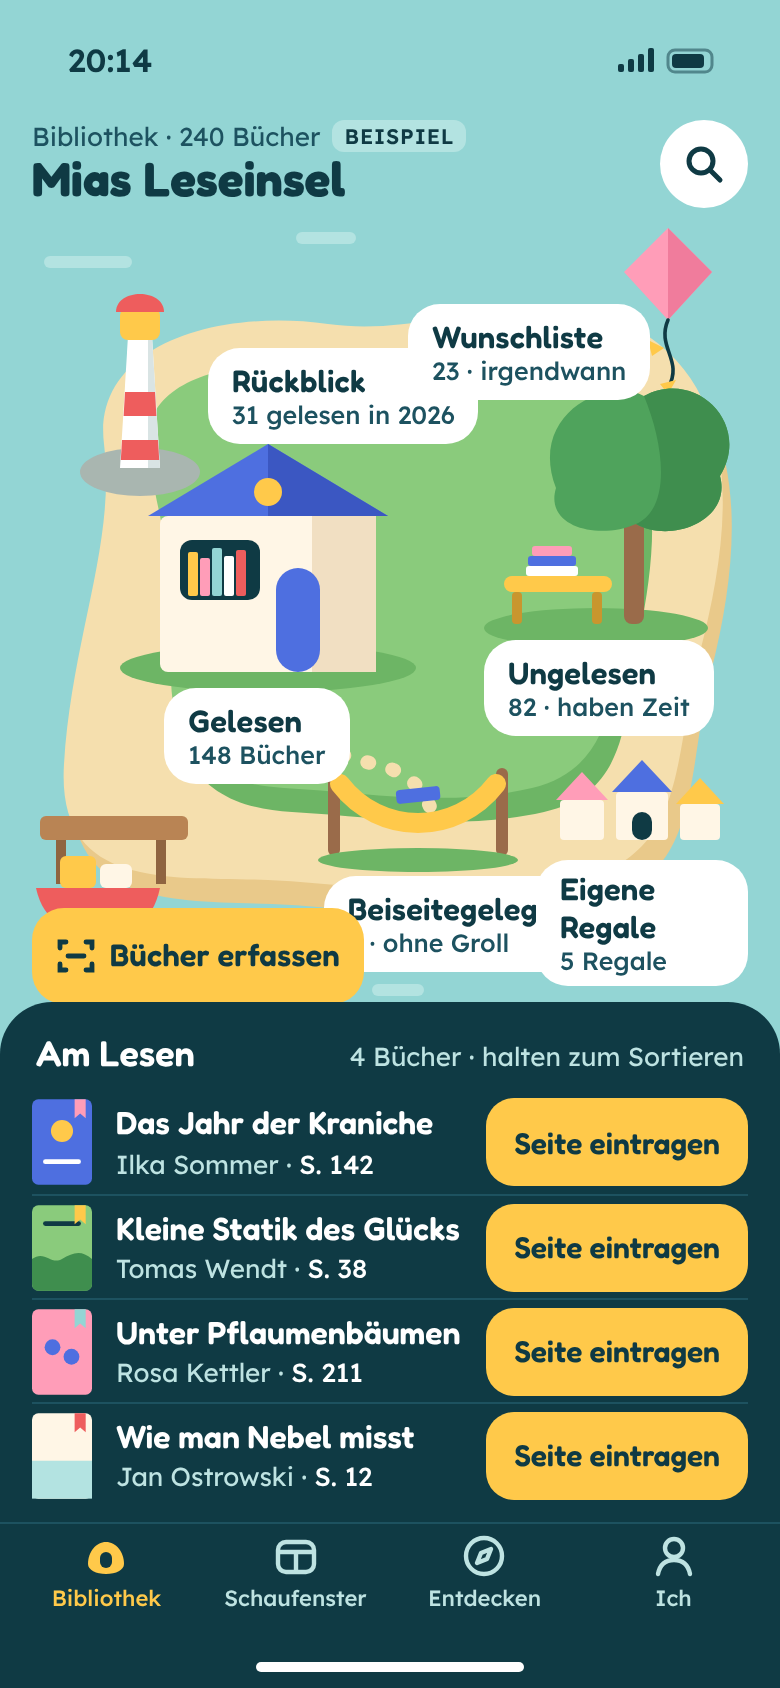
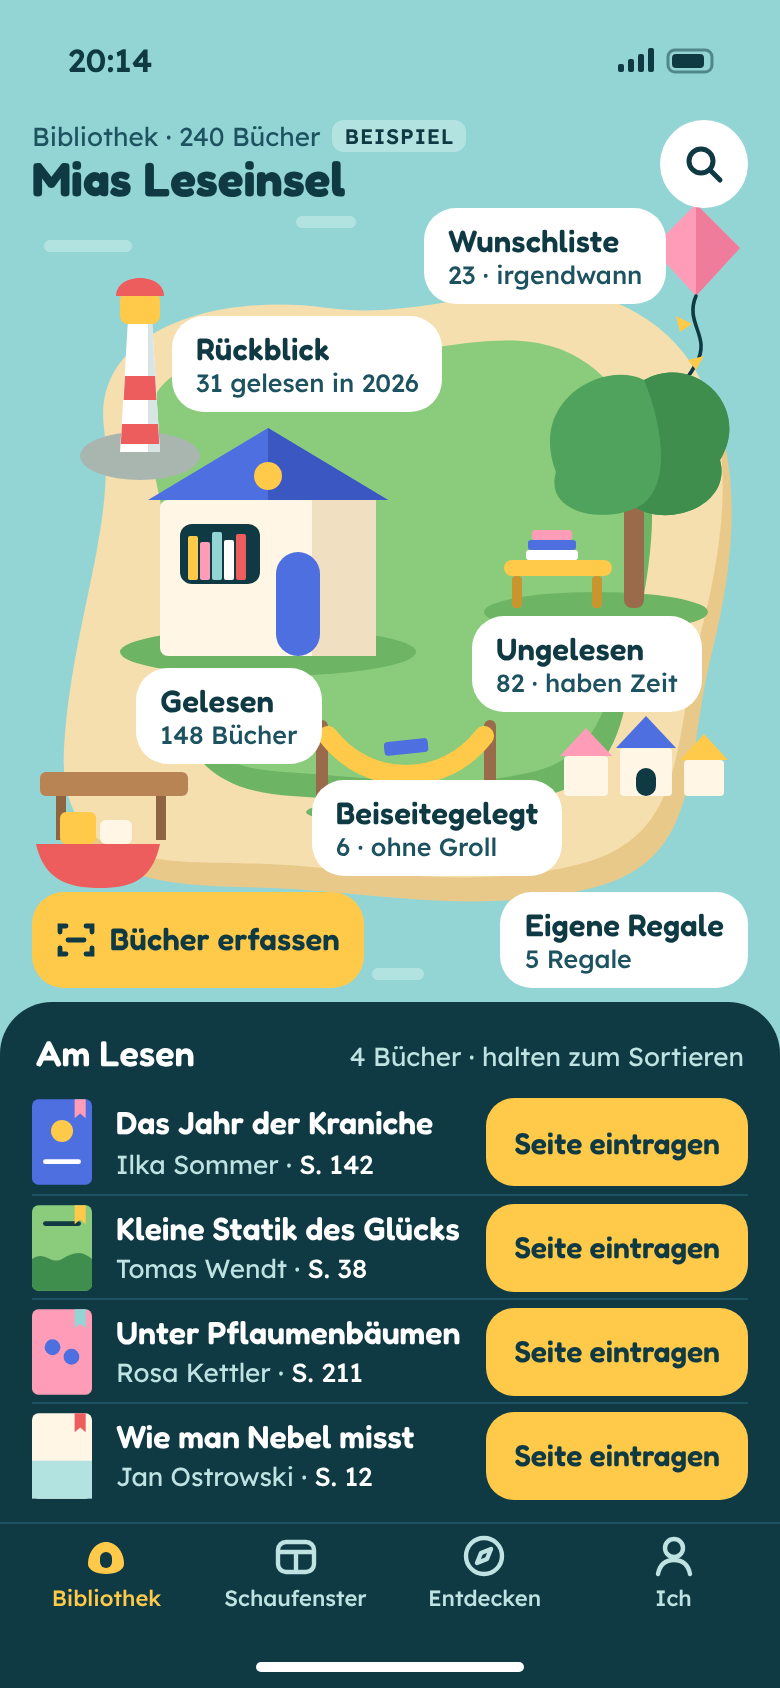
Runde 2, Designer 1 (Bilderbuch): zwei Konzepte
Claude-Session: https://claude.ai/code/session_01XFBEjrJEUrXQYaFeZnVBdK

Changed region(s): [[0.0308, 0.1232, 0.9538, 0.6161], [0.0923, 0.3389, 0.1231, 0.4005]]

diff --git a/prototyp/designer2/4-illustrationssystem/konzept-b-4buecher.html b/prototyp/designer2/4-illustrationssystem/konzept-b-4buecher.html
@@ -43,9 +43,10 @@
   /* Karte */
   .karte{position:absolute;left:16px;width:358px;height:394px}
   .zwei .karte{top:146px}
-  .vier .karte{top:108px}
+  .vier .karte{top:100px}
   .karte svg.welt{position:absolute;left:0;top:0}
   .ort{position:absolute;min-height:48px;background:var(--weiss);border-radius:16px;padding:5px 12px 6px;display:flex;flex-direction:column;justify-content:center;line-height:1.15}
+  .ort{white-space:nowrap}
   .ort b{font:600 15.5px 'Fredoka';letter-spacing:.005em}
   .ort span{font-size:12.5px;color:var(--tief-2);font-weight:500}
   .ort.tun{background:var(--gelb);flex-direction:row;align-items:center;gap:7px}
@@ -106,8 +107,6 @@
       <!-- Insel: Gras -->
       <path d="M62 120c-2-34 46-44 92-38s92-20 128 6 30 80 22 120-4 80-48 90-88 2-126 0-62-20-58-68 -8-80-10-110z" fill="#6DB565"/>
       <path d="M58 114c-2-34 46-44 92-38s92-20 128 6 28 78 20 116-6 78-48 88-86 2-124 0-60-20-56-66-10-76-12-106z" fill="#8ACB7C"/>
-      <!-- Pfade -->
-      <path d="M118 236c10 30 40 34 60 40s30 30 20 52" stroke="#F5DFAE" stroke-width="7" fill="none" stroke-linecap="round" stroke-dasharray="1 12"/>
 
       <!-- Leuchtturm: Rückblick -->
       <ellipse cx="54" cy="128" rx="30" ry="12" fill="#A9B6B0"/>
@@ -117,11 +116,11 @@
       <rect x="44" y="46" width="20" height="16" rx="4" fill="#FFC94A"/>
       <path d="M42 48c0-12 24-12 24 0z" fill="#EE5D5D"/>
 
-      <!-- Drachen: Wunschliste -->
+      <!-- Drachen: Wunschliste --><g transform="translate(14,-4)">
       <path d="M318 6l22 22-22 24-22-24z" fill="#FF9DB8"/>
       <path d="M318 6l22 22-22 24z" fill="#F07C9C"/>
       <path d="M318 52c-6 14 8 20 0 34s-14 18-24 26" stroke="#0F3A44" stroke-width="1.8" fill="none" stroke-linecap="round"/>
-      <path d="M316 66l-8-4 2 8zM314 84l8-2-4 7z" fill="#FFC94A"/>
+      <path d="M316 66l-8-4 2 8zM314 84l8-2-4 7z" fill="#FFC94A"/></g>
 
       <!-- Bibliothek: Gelesen -->
       <ellipse cx="118" cy="226" rx="74" ry="12" fill="#6DB565"/>
@@ -146,22 +145,22 @@
       <rect x="250" y="165" width="20" height="5" rx="1.5" fill="#FF9DB8"/>
       <rect x="247" y="175" width="26" height="5" rx="1.5" fill="#FFFFFF"/>
 
-      <!-- Steg + Boot: Erfassen -->
+      <!-- Steg + Boot: Erfassen --><g transform="translate(0,-14)">
       <rect x="4" y="300" width="74" height="12" rx="3" fill="#B98454"/>
       <rect x="12" y="312" width="5" height="22" fill="#8F6440"/><rect x="62" y="312" width="5" height="22" fill="#8F6440"/>
       <path d="M2 336h62c-4 18-14 22-30 22S6 354 2 336z" fill="#EE5D5D"/>
       <rect x="14" y="320" width="18" height="16" rx="3" fill="#FFC94A"/>
-      <rect x="34" y="324" width="16" height="12" rx="3" fill="#FFF6E6"/>
+      <rect x="34" y="324" width="16" height="12" rx="3" fill="#FFF6E6"/></g>
 
-      <!-- Hängematte: Beiseitegelegt -->
+      <!-- Hängematte: Beiseitegelegt --><g transform="translate(-6,-16)">
       <rect x="148" y="276" width="6" height="44" rx="3" fill="#9A6B4A"/>
       <rect x="232" y="276" width="6" height="44" rx="3" fill="#9A6B4A"/>
       <path d="M154 284c20 26 58 26 78 0" stroke="#FFC94A" stroke-width="10" fill="none" stroke-linecap="round"/>
       <rect x="182" y="286" width="22" height="7" rx="2" fill="#4E6FE0" transform="rotate(-6 193 289)"/>
-      <ellipse cx="193" cy="322" rx="50" ry="6" fill="#6DB565"/>
+      <ellipse cx="193" cy="322" rx="50" ry="6" fill="#6DB565"/></g>
 
       <!-- Hütten: Eigene Regale -->
-      <g>
+      <g transform="translate(2,-14)">
         <path d="M262 292l13-14 13 14z" fill="#FF9DB8"/><rect x="264" y="292" width="22" height="20" rx="2" fill="#FFF6E6"/>
         <path d="M290 288l15-16 15 16z" fill="#4E6FE0"/><rect x="292" y="288" width="26" height="24" rx="2" fill="#FFF6E6"/>
         <path d="M322 294l12-13 12 13z" fill="#FFC94A"/><rect x="324" y="294" width="20" height="18" rx="2" fill="#FFF6E6"/>
@@ -169,12 +168,12 @@
       </g>
     </svg>
 
-    <div class="ort" style="left:88px;top:66px"><b>Rückblick</b><span>31 gelesen in 2026</span></div>
-    <div class="ort" style="left:188px;top:44px"><b>Wunschliste</b><span>23 · irgendwann</span></div>
-    <div class="ort" style="left:66px;top:236px"><b>Gelesen</b><span>148 Bücher</span></div>
-    <div class="ort" style="left:226px;top:212px"><b>Ungelesen</b><span><i class="nur2" style="font-style:normal">84</i><i class="nur4" style="font-style:normal">82</i> · haben Zeit</span></div>
-    <div class="ort" style="left:146px;top:330px"><b>Beiseitegelegt</b><span>6 · ohne Groll</span></div>
-    <div class="ort" style="left:252px;top:322px"><b>Eigene Regale</b><span>5 Regale</span></div>
+    <div class="ort" style="left:70px;top:58px"><b>Rückblick</b><span>31 gelesen in 2026</span></div>
+    <div class="ort" style="left:196px;top:4px"><b>Wunschliste</b><span>23 · irgendwann</span></div>
+    <div class="ort" style="left:52px;top:234px"><b>Gelesen</b><span>148 Bücher</span></div>
+    <div class="ort" style="left:220px;top:208px"><b>Ungelesen</b><span><i class="nur2" style="font-style:normal">84</i><i class="nur4" style="font-style:normal">82</i> · haben Zeit</span></div>
+    <div class="ort" style="left:140px;top:290px"><b>Beiseitegelegt</b><span>6 · ohne Groll</span></div>
+    <div class="ort" style="right:0;top:346px"><b>Eigene Regale</b><span>5 Regale</span></div>
     <div class="ort tun" style="left:0;top:346px"><svg width="20" height="20" viewBox="0 0 20 20" fill="none" stroke="#0F3A44" stroke-width="2.4" stroke-linecap="round"><path d="M2 6V3h3M15 3h3v3M18 14v3h-3M5 17H2v-3M6 10h8"/></svg><b>Bücher erfassen</b></div>
   </section>
 

diff --git a/prototyp/designer2/4-illustrationssystem/konzept-b.html b/prototyp/designer2/4-illustrationssystem/konzept-b.html
@@ -43,9 +43,10 @@
   /* Karte */
   .karte{position:absolute;left:16px;width:358px;height:394px}
   .zwei .karte{top:146px}
-  .vier .karte{top:108px}
+  .vier .karte{top:100px}
   .karte svg.welt{position:absolute;left:0;top:0}
   .ort{position:absolute;min-height:48px;background:var(--weiss);border-radius:16px;padding:5px 12px 6px;display:flex;flex-direction:column;justify-content:center;line-height:1.15}
+  .ort{white-space:nowrap}
   .ort b{font:600 15.5px 'Fredoka';letter-spacing:.005em}
   .ort span{font-size:12.5px;color:var(--tief-2);font-weight:500}
   .ort.tun{background:var(--gelb);flex-direction:row;align-items:center;gap:7px}
@@ -106,8 +107,6 @@
       <!-- Insel: Gras -->
       <path d="M62 120c-2-34 46-44 92-38s92-20 128 6 30 80 22 120-4 80-48 90-88 2-126 0-62-20-58-68 -8-80-10-110z" fill="#6DB565"/>
       <path d="M58 114c-2-34 46-44 92-38s92-20 128 6 28 78 20 116-6 78-48 88-86 2-124 0-60-20-56-66-10-76-12-106z" fill="#8ACB7C"/>
-      <!-- Pfade -->
-      <path d="M118 236c10 30 40 34 60 40s30 30 20 52" stroke="#F5DFAE" stroke-width="7" fill="none" stroke-linecap="round" stroke-dasharray="1 12"/>
 
       <!-- Leuchtturm: Rückblick -->
       <ellipse cx="54" cy="128" rx="30" ry="12" fill="#A9B6B0"/>
@@ -117,11 +116,11 @@
       <rect x="44" y="46" width="20" height="16" rx="4" fill="#FFC94A"/>
       <path d="M42 48c0-12 24-12 24 0z" fill="#EE5D5D"/>
 
-      <!-- Drachen: Wunschliste -->
+      <!-- Drachen: Wunschliste --><g transform="translate(14,-4)">
       <path d="M318 6l22 22-22 24-22-24z" fill="#FF9DB8"/>
       <path d="M318 6l22 22-22 24z" fill="#F07C9C"/>
       <path d="M318 52c-6 14 8 20 0 34s-14 18-24 26" stroke="#0F3A44" stroke-width="1.8" fill="none" stroke-linecap="round"/>
-      <path d="M316 66l-8-4 2 8zM314 84l8-2-4 7z" fill="#FFC94A"/>
+      <path d="M316 66l-8-4 2 8zM314 84l8-2-4 7z" fill="#FFC94A"/></g>
 
       <!-- Bibliothek: Gelesen -->
       <ellipse cx="118" cy="226" rx="74" ry="12" fill="#6DB565"/>
@@ -146,22 +145,22 @@
       <rect x="250" y="165" width="20" height="5" rx="1.5" fill="#FF9DB8"/>
       <rect x="247" y="175" width="26" height="5" rx="1.5" fill="#FFFFFF"/>
 
-      <!-- Steg + Boot: Erfassen -->
+      <!-- Steg + Boot: Erfassen --><g transform="translate(0,-14)">
       <rect x="4" y="300" width="74" height="12" rx="3" fill="#B98454"/>
       <rect x="12" y="312" width="5" height="22" fill="#8F6440"/><rect x="62" y="312" width="5" height="22" fill="#8F6440"/>
       <path d="M2 336h62c-4 18-14 22-30 22S6 354 2 336z" fill="#EE5D5D"/>
       <rect x="14" y="320" width="18" height="16" rx="3" fill="#FFC94A"/>
-      <rect x="34" y="324" width="16" height="12" rx="3" fill="#FFF6E6"/>
+      <rect x="34" y="324" width="16" height="12" rx="3" fill="#FFF6E6"/></g>
 
-      <!-- Hängematte: Beiseitegelegt -->
+      <!-- Hängematte: Beiseitegelegt --><g transform="translate(-6,-16)">
       <rect x="148" y="276" width="6" height="44" rx="3" fill="#9A6B4A"/>
       <rect x="232" y="276" width="6" height="44" rx="3" fill="#9A6B4A"/>
       <path d="M154 284c20 26 58 26 78 0" stroke="#FFC94A" stroke-width="10" fill="none" stroke-linecap="round"/>
       <rect x="182" y="286" width="22" height="7" rx="2" fill="#4E6FE0" transform="rotate(-6 193 289)"/>
-      <ellipse cx="193" cy="322" rx="50" ry="6" fill="#6DB565"/>
+      <ellipse cx="193" cy="322" rx="50" ry="6" fill="#6DB565"/></g>
 
       <!-- Hütten: Eigene Regale -->
-      <g>
+      <g transform="translate(2,-14)">
         <path d="M262 292l13-14 13 14z" fill="#FF9DB8"/><rect x="264" y="292" width="22" height="20" rx="2" fill="#FFF6E6"/>
         <path d="M290 288l15-16 15 16z" fill="#4E6FE0"/><rect x="292" y="288" width="26" height="24" rx="2" fill="#FFF6E6"/>
         <path d="M322 294l12-13 12 13z" fill="#FFC94A"/><rect x="324" y="294" width="20" height="18" rx="2" fill="#FFF6E6"/>
@@ -169,12 +168,12 @@
       </g>
     </svg>
 
-    <div class="ort" style="left:88px;top:66px"><b>Rückblick</b><span>31 gelesen in 2026</span></div>
-    <div class="ort" style="left:188px;top:44px"><b>Wunschliste</b><span>23 · irgendwann</span></div>
-    <div class="ort" style="left:66px;top:236px"><b>Gelesen</b><span>148 Bücher</span></div>
-    <div class="ort" style="left:226px;top:212px"><b>Ungelesen</b><span><i class="nur2" style="font-style:normal">84</i><i class="nur4" style="font-style:normal">82</i> · haben Zeit</span></div>
-    <div class="ort" style="left:146px;top:330px"><b>Beiseitegelegt</b><span>6 · ohne Groll</span></div>
-    <div class="ort" style="left:252px;top:322px"><b>Eigene Regale</b><span>5 Regale</span></div>
+    <div class="ort" style="left:70px;top:58px"><b>Rückblick</b><span>31 gelesen in 2026</span></div>
+    <div class="ort" style="left:196px;top:4px"><b>Wunschliste</b><span>23 · irgendwann</span></div>
+    <div class="ort" style="left:52px;top:234px"><b>Gelesen</b><span>148 Bücher</span></div>
+    <div class="ort" style="left:220px;top:208px"><b>Ungelesen</b><span><i class="nur2" style="font-style:normal">84</i><i class="nur4" style="font-style:normal">82</i> · haben Zeit</span></div>
+    <div class="ort" style="left:140px;top:290px"><b>Beiseitegelegt</b><span>6 · ohne Groll</span></div>
+    <div class="ort" style="right:0;top:346px"><b>Eigene Regale</b><span>5 Regale</span></div>
     <div class="ort tun" style="left:0;top:346px"><svg width="20" height="20" viewBox="0 0 20 20" fill="none" stroke="#0F3A44" stroke-width="2.4" stroke-linecap="round"><path d="M2 6V3h3M15 3h3v3M18 14v3h-3M5 17H2v-3M6 10h8"/></svg><b>Bücher erfassen</b></div>
   </section>
 

diff --git a/prototyp/designer2/1-bilderbuch/konzept-b.html b/prototyp/designer2/1-bilderbuch/konzept-b.html
@@ -41,9 +41,9 @@
   .gitter{display:grid;grid-template-columns:1fr 1fr;gap:8px;position:relative;z-index:2}
   .buch{background:var(--papier);border:2px solid var(--tinte);border-radius:14px;padding:10px 10px 10px;display:flex;flex-direction:column;gap:8px}
   .buch .oben{display:flex;gap:10px;align-items:flex-start;min-height:72px}
-  .buch .oben svg{width:48px;height:70px}
+  .buch .oben svg{width:44px;height:64px}
   .buch svg{flex:none}
-  .buch .t{font:600 15px/1.18 'Lexend';display:-webkit-box;-webkit-line-clamp:2;-webkit-box-orient:vertical;overflow:hidden}
+  .buch .t{font:600 15px/1.18 'Lexend';display:-webkit-box;-webkit-line-clamp:3;-webkit-box-orient:vertical;overflow:hidden}
   .buch .a{font-size:12.5px;color:var(--tinte2);margin-top:3px;white-space:nowrap;overflow:hidden;text-overflow:ellipsis}
   .seite{height:46px;border-radius:12px;background:var(--gelb);border:2px solid var(--tinte);display:flex;align-items:center;justify-content:center;gap:6px;font:600 14px 'Lexend'}
   .seite b{font:800 17px 'Grandstander'}
@@ -69,12 +69,12 @@
   .tag span{font-size:12.5px;color:var(--tinte2)}
   .tag.gelb{background:#FFF1C4}
 
-  .drachen{position:absolute;right:16px;top:8px;z-index:2}
+  .drachen{position:absolute;right:16px;top:8px;z-index:0;overflow:visible}
   .schnur{position:absolute;right:46px;top:66px;width:24px;bottom:276px;z-index:1}
-  .wolke{position:absolute;left:30px;top:30px}
+  .wolke{position:absolute;left:40px;top:44px}
   body.vier .wolke{display:none}
   .tag{z-index:3}
-  .szene{z-index:0}
+  .szene{z-index:1}
   .tabs{flex:none;height:83px;background:var(--papier);border-top:2px solid var(--tinte);display:flex;padding:6px 6px 34px}
   .tab{flex:1;display:flex;flex-direction:column;align-items:center;justify-content:center;gap:2px;font:600 11px 'Lexend';color:#56645D}
   .tab.on{color:var(--tinte)}
@@ -134,8 +134,7 @@
 
   <section class="garten" aria-label="Bibliothek">
     <!-- Drachen = Wunschliste; fliegt höher, wenn weniger Bücher offen sind -->
-    <svg class="schnur" preserveAspectRatio="none" viewBox="0 0 10 10"><line x1="10" y1="0" x2="0" y2="10" stroke="#22302A" stroke-width="1.3" vector-effect="non-scaling-stroke"/></svg>
-    <svg class="drachen" width="62" height="104" viewBox="0 0 62 104"><g stroke="#22302A" stroke-width="2" stroke-linejoin="round">
+    <svg class="drachen" width="62" height="260" viewBox="0 0 62 260"><path d="M31 34 Q20 150 -30 260" fill="none" stroke="#22302A" stroke-width="1.3"/><g stroke="#22302A" stroke-width="2" stroke-linejoin="round">
       <path d="M31 2 L59 30 L31 64 L3 30 Z" fill="#E0634A"/><path d="M31 2V64M3 30h56" stroke-width="1.4"/>
       <path d="M31 64 q-10 12 -2 20 q8 10 -4 18" fill="none" stroke-width="1.6"/>
       <rect x="22" y="72" width="12" height="9" rx="1.5" fill="#F4C84E" transform="rotate(-12 28 76)"/>

diff --git a/prototyp/designer2/4-illustrationssystem/konzept-a-4buecher.html b/prototyp/designer2/4-illustrationssystem/konzept-a-4buecher.html
@@ -49,6 +49,8 @@
   .karte{flex:0 0 171px;min-width:0;width:171px;height:178px;border:2.5px solid var(--tinte);border-radius:18px;background:var(--weiss);padding:10px 10px 10px;display:flex;flex-direction:column}
   .vier .karte{flex-basis:150px;width:150px}
   .vier .karte .t{font-size:14.5px}
+  .vier .knopf{font-size:14.5px}
+  .vier .knopf svg{display:none}
   .karte .oben{display:flex;gap:10px;align-items:flex-end}
   .karte .seite{display:flex;flex-direction:column;line-height:1}
   .karte .seite small{font-size:13px;color:var(--tinte-2);margin-bottom:3px}

diff --git a/prototyp/designer2/4-illustrationssystem/konzept-a.html b/prototyp/designer2/4-illustrationssystem/konzept-a.html
@@ -49,6 +49,8 @@
   .karte{flex:0 0 171px;min-width:0;width:171px;height:178px;border:2.5px solid var(--tinte);border-radius:18px;background:var(--weiss);padding:10px 10px 10px;display:flex;flex-direction:column}
   .vier .karte{flex-basis:150px;width:150px}
   .vier .karte .t{font-size:14.5px}
+  .vier .knopf{font-size:14.5px}
+  .vier .knopf svg{display:none}
   .karte .oben{display:flex;gap:10px;align-items:flex-end}
   .karte .seite{display:flex;flex-direction:column;line-height:1}
   .karte .seite small{font-size:13px;color:var(--tinte-2);margin-bottom:3px}

diff --git a/prototyp/designer2/1-bilderbuch/KONZEPT.md b/prototyp/designer2/1-bilderbuch/KONZEPT.md
@@ -1,0 +1,77 @@
+# Bilderbuch-Illustration als Oberfläche – Runde 2
+
+Designschule: Erzählende Illustration, die zugleich Bedienung ist. Jedes Bild ist ein Einstieg, jedes Ding tut etwas, der Humor ist leise. Beide Konzepte sind Tagesbilder (Licht an war Nacht), mit dicker, gleichmäßiger Tuschelinie und flachen Farben wie bei Mitgutsch und Berner. Es gibt keine Pendelleuchte und keine aufgeschlagenen Bücher als Hauptmotiv.
+
+## Vorbilder (beide Konzepte)
+
+| Vorbild | URL | Was ich daraus nehme |
+|---|---|---|
+| Ali Mitgutsch, Wimmelbücher | https://en.wikipedia.org/wiki/Ali_Mitgutsch | Der Querschnitt durch Häuser und Orte, bei dem jedes Zimmer eine eigene kleine Geschichte hat. Ich nehme davon nur wenige große Zimmer statt Gewimmel. |
+| Rotraut Susanne Berner, Wimmelbücher (Gerstenberg) | https://perlentaucher.de/buch/rotraut-susanne-berner/winter-wimmelbuch.html | Gleich dicke Konturen, flache Farben ohne Verlauf und ein Ort, den man immer wieder betritt |
+| Jon Klassen, „I Want My Hat Back“ | https://www.penguinrandomhouse.com/books/214488/i-want-my-hat-back-by-jon-klassen/ | Trockener Humor über ein Detail, etwa den kleinen Hut auf einem wartenden Buch. Die Figuren haben Punktaugen und wenig Mimik. |
+| Oliver Jeffers, „Stuck“ | https://www.penguinrandomhouse.com/books/310267/stuck-by-oliver-jeffers-illustrated-by-oliver-jeffers | Dinge an unerwarteten Orten, zum Beispiel Bücher als Früchte im Baum oder als Drachenschwanz. Die Logik ist absurd, aber freundlich. |
+| Wolf Erlbruch, „Ente, Tod und Tulpe“ | https://en.wikipedia.org/wiki/Duck,_Death_and_the_Tulip | Ein schweres Thema wird sanft erzählt, hier das Abbrechen. Viel Leerraum um wenige Dinge. |
+| Beatrice Alemagna, „The Wonderful Fluffy Little Squishy“ | https://enchantedlion.com/all-books/the-wonderful-fluffy-little-squishy | Kräftige Farbe als Wärme, die nicht kitschig wird |
+
+---
+
+## Konzept A: Das Bücherhaus
+
+**Idee:** Die Bibliothek ist ein Haus im Querschnitt, und jeder Band ist ein Zimmer, in dem Bücher etwas tun. Gelesene stehen in der Stube, ungelesene sitzen im Wartezimmer auf der Bank, abgebrochene schlafen sich im Bett aus, und Wunschbücher fliegen mit Papierflügeln zum Dachboden. Oben im Hausflur liegen die offenen Bücher als ruhige Zeilen, jede mit ihrem Knopf „S. 142 eintragen“.
+
+- Dateien: `konzept-a.html` (mit `#4` für 4 Bücher), `konzept-a.png`, `konzept-a-4buecher.png`
+- **Flächenanteil „Am Lesen“:** 25,9 % bei 2 Büchern, 32,1 % bei 4 Büchern (gemessen an 844 px). Bei 4 Büchern werden die Zeilen auf 54 px verdichtet, und das Haus wird flacher, statt nach unten wegzurutschen.
+- **Bibliotheks-Einstiege:** 6 Zimmer (Wunschliste, Gelesen, Ungelesen, Eigene Regale, Abgebrochen, Rückblick als Gartenschild) und dazu genau eine Tür zum Erfassen. In Licht an waren es 8 Kacheln.
+
+**Psychologische Begründung der 3 wichtigsten Entscheidungen**
+1. *Ein Haus statt eines Rasters:* Besitz ist erweitertes Selbst (Belk), und Räume verraten ihre Bewohner (Gosling). „Aus der Bücherei von Mira Kessler“ über einem Haus, in dem die Bücher wohnen, macht die Sammlung zu einem Ort, an dem man ankommt. Wer die App öffnet, kommt nach Hause und betritt kein Werkzeug.
+2. *Ungelesen als Wartezimmer mit freundlichen Gesichtern („61 haben Zeit“):* Der SuB schwankt zwischen Schuld und Humor. Wartende, gemütliche Bücher (eines schläft, eines trägt Hut) machen aus der Schuld ein Schmunzeln und stellen keine Forderung. Das entspricht der Calm Technology und dem Ansatz „du kannst“ statt „du musst“.
+3. *Abgebrochen als Bett („6 ruhen sich aus“):* „Beiseitegelegt“ statt „gescheitert“. Wie bei Erlbruch wird ein unbequemes Thema sanft erzählt. Das Buch darf wieder aufstehen.
+
+Ergänzend gilt: Neue Bücher kommen durch die Haustür, das passt zum Ankommen. Die Hausnummer zeigt den Bestand (240) und wird zur leisen Statistik ohne Kennzahlenkachel.
+
+**Nutzerfreundlichkeit**
+- Häufigste Handlung: Der gelbe Knopf rechts in der Buchzeile („S. 142 eintragen“, 94 × 60 pt, bei 4 Büchern 94 × 46 pt) wird einmal getippt. Danach öffnet sich ein Zahlenfeld mit der zuletzt eingetragenen Seite. Er liegt im Daumenbereich der rechten Hand.
+- Erfassen geschieht nur an der gelben Haustür „Neue Bücher erfassen“ in der Mitte des Erdgeschosses. Es gibt kein zweites Plus.
+- Jedes Zimmer ist als Ganzes tippbar (mindestens 88 × 116 pt). Die Beschriftung steht als echter Text auf einem hellen Schild (Kontrast ≥ 9 : 1). Bei großer Systemschrift wachsen die Schilder, die Illustration skaliert mit `meet` darüber und wird nur kleiner, nie abgeschnitten.
+
+**Skalierung auf 1.000 Bücher:** Die Illustrationen sind fest und zeigen zum Beispiel immer dasselbe Regal in der Stube. Wachsen dürfen nur die Zahlen auf den Schildern und die Hausnummer. Ab dem ersten Eigenen Regal mit Inhalt beschriften sich die Kisten mit den Namen der drei größten Sammlungen.
+
+**Risiko:** Das Haus kann in Richtung Kinderbuch kippen, besonders durch die Gesichter auf den Büchern. Gegenmittel sind wenige Punktaugen (Klassen-Reduktion) und kein Maskottchen. Ein Kansei-Test sollte das Paar „wertig–kitschig“ prüfen. Außerdem verlangt jede neue Kategorie ein neues Zimmer, das Haus ist also weniger erweiterbar als ein Raster.
+
+---
+
+## Konzept B: Der Lesegarten
+
+**Idee:** Die Bibliothek ist ein Garten, in dem Bücher wachsen, ruhen und fliegen. Gelesenes hängt als Früchte im Baum, Ungelesenes steckt keimend im Beet, Abgebrochenes macht Pause in der Hängematte, Wunschbücher fliegen als Drachenschwanz, und neue Bücher kommen per Schubkarre, also in Schüben. Die offenen Bücher liegen vorne „auf der Bank“ als Kacheln mit großem Eintragen-Knopf.
+
+- Dateien: `konzept-b.html` (mit `#4` für 4 Bücher), `konzept-b.png`, `konzept-b-4buecher.png`
+- **Flächenanteil „Am Lesen“:** 22,2 % bei 2 Büchern, 32,8 % bei 4 Büchern. Bei 4 Büchern werden die Kacheln flacher, und der Drachen sinkt vom Himmel auf das Schuppendach. Wenige offene Bücher bedeuten also mehr Himmel.
+- **Bibliotheks-Einstiege:** 6 Steckschilder (Wunschliste, Gelesen, Abgebrochen, Eigene Regale, Rückblick, Ungelesen) und dazu genau eine Schubkarre zum Erfassen.
+
+**Psychologische Begründung der 3 wichtigsten Entscheidungen**
+1. *Ungelesen als Beet („61 haben Zeit“):* Ungelesenes steht für Möglichkeit (Antibibliothek). Ein Keimling drängt nicht, er wächst, wenn es Zeit ist. Das ist die stärkste Form von „ungelesene Bücher warten freundlich“.
+2. *Gelesenes als Baum mit Früchten:* Gelesenes ist Ernte und Erinnerung (Normans reflektive Ebene), keine Leistung. Es gibt keine Zahl, die steigt, nur einen Baum, der da ist. Das Regal wird ruhig als Teil des eigenen Lebens erzählt.
+3. *Die Bank als Ort für das Aktuelle:* Lesen heißt im Bild sitzen und nicht leisten. Die Kacheln liegen wie Bücher auf der Gartenbank. Daraus folgen Ankommen statt Fortschrittsbalken, keine Prozente und keine Ziele.
+
+Ergänzend gilt: Die Schubkarre greift den belegten Erfassungsrhythmus auf (Schübe, CLZ und BookBuddy). Der Rückblick ist ein Baumstumpf mit Jahresringen, also Chronik statt Dashboard.
+
+**Nutzerfreundlichkeit**
+- Häufigste Handlung: der gelbe Balken „S. 142 eintragen“ über die volle Kachelbreite (155 × 46 pt, bei 4 Büchern 155 × 44 pt) wird einmal getippt. Mit dem Daumen ist er in beiden Spalten gut erreichbar.
+- Erfassen geschieht nur über das gelbe Schild „Neue Bücher erfassen“ an der Schubkarre, unten in der Mitte. Das ist die beste Daumenzone.
+- Alle Einstiege sind echte Textschilder mit mindestens 44 pt Höhe. Die Illustration liegt dahinter und ist nicht selbst Tippziel. Dadurch gibt es keine Mehrdeutigkeit, wenn Bilder sich überlappen. Bei großer Systemschrift brechen die Kacheltitel bis auf drei Zeilen um.
+
+**Skalierung auf 1.000 Bücher:** Baum, Beet und Drachenschwanz haben eine feste Anzahl Dinge. Wachsen dürfen nur die Zahlen auf den Schildern. Bei 5 offenen Büchern bekommt die Bank 3 + 2 Kacheln mit etwa 88 pt Höhe, das sind rund 33 %. Der Garten schiebt sich dann bis unter den Drachen.
+
+**Risiko:** Die Szene ist dichter als das Haus, und die Schilder liegen frei im Bild. Bei sehr großer Systemschrift können sie sich überlappen, dann braucht es einen Rückfall auf eine zweispaltige Schilderreihe. Die Gartenmetapher („Abgebrochen in der Hängematte“) ist außerdem stärker erklärungsbedürftig als ein Zimmer.
+
+---
+
+## Was beide Konzepte gegenüber „Licht an“ lösen
+- „Am Lesen“ belegt höchstens ein Drittel der Fläche (22–33 % statt etwa 45 %). Es funktioniert mit 1 bis 5 Büchern, und Eintragen braucht immer ein Tippen.
+- Statt 8 kleiner Kacheln gibt es 6 große, benannte Orte in einem zusammenhängenden Bild und einen einzigen Erfassungsweg.
+- Kontrast: Text in `#26232F` bzw. `#22302A` auf hellen Schildern ≥ 9 : 1, Nebentext ≥ 7 : 1.
+- Schriften: A nutzt Bricolage Grotesque und Atkinson Hyperlegible (für Sehschwäche entwickelt). B nutzt Grandstander (nur Überschriften) und Lexend. Keine davon steht auf der Verbotsliste.
+- Beispieldaten sind gekennzeichnet („BEISPIEL“, erfundene Titel und Namen).
+
+Render-Skript: `render.js` (eigener Server auf Port 8801, misst den Flächenanteil mit).
